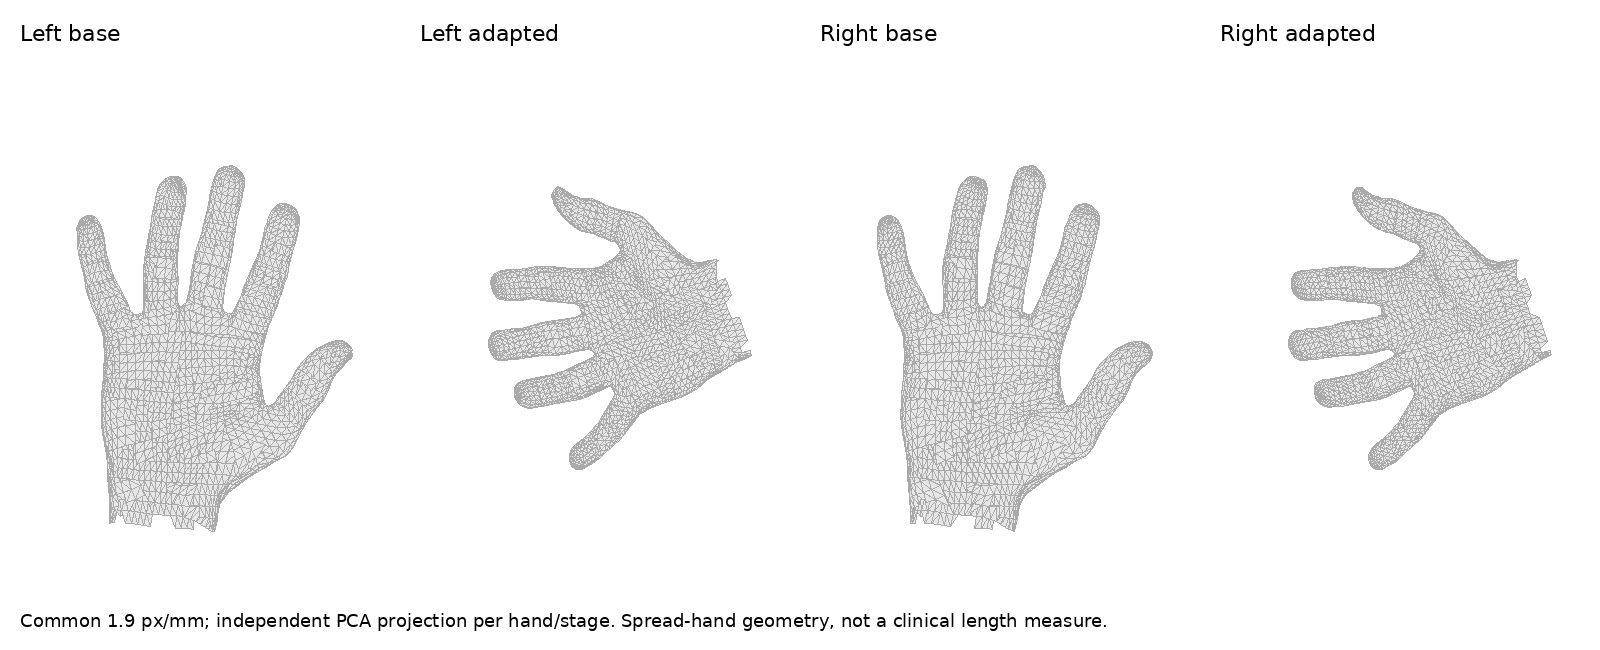
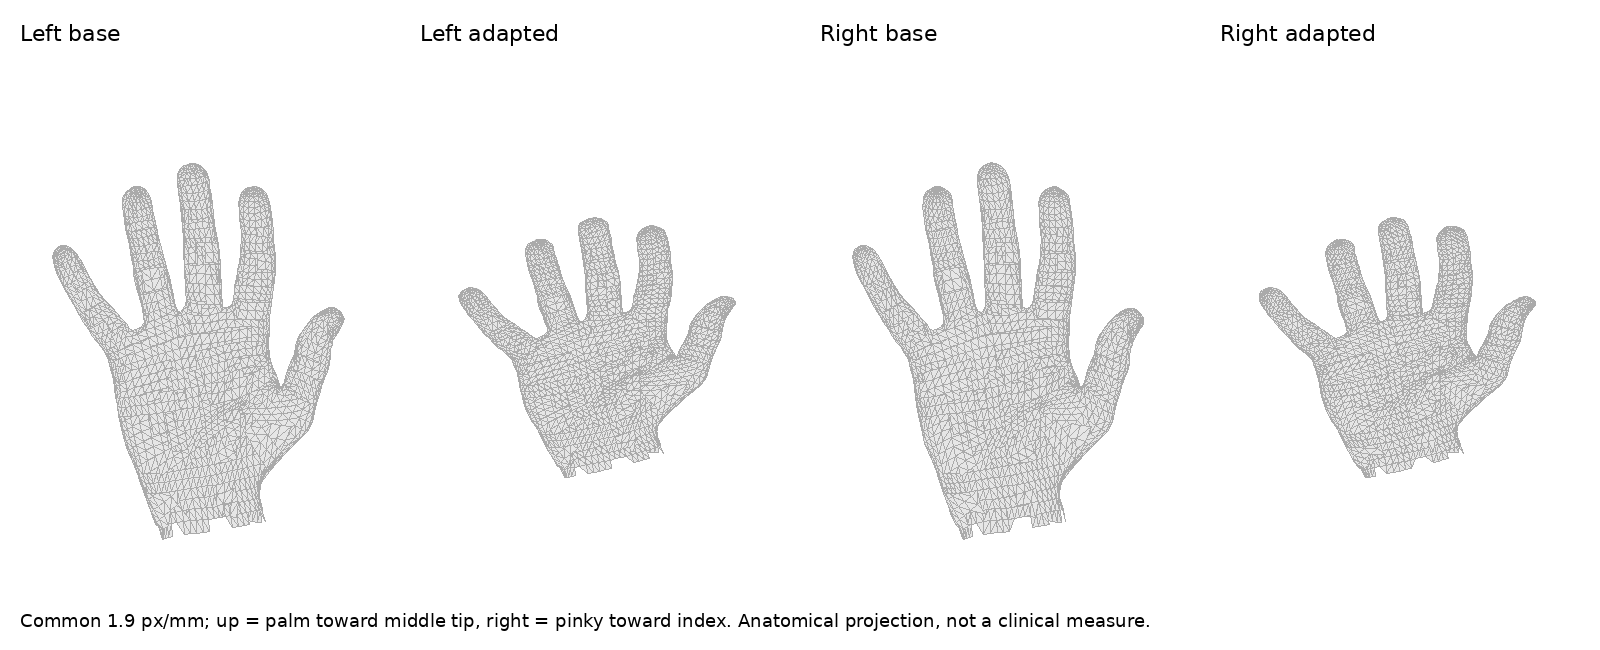
docs: Align audit hand comparisons to anatomical landmarks

diff --git a/tools/blender/publish_athlete_audit.py b/tools/blender/publish_athlete_audit.py
@@ -98,12 +98,17 @@ def scientific_figures(base_dir,metrics_dir,out,records,capture):
     for col,(side,stage) in enumerate([(s,v) for s in ['Left','Right'] for v in ['base','adapted']]):
         ids=[10 if side=='Left' else 9]+[i for v in m['source']['digit_face_sets'][side].values() for i in v]
         selected=np.isin(a['vertex_face_sets'],ids);points=a[stage];center=points[selected].mean(0)
-        axes=np.linalg.svd(points[selected]-center,full_matrices=False)[2]
-        q=np.column_stack([col*400+200+(points-center)@axes[1]*1900,330-(points-center)@axes[0]*1900])
+        digit_ids=m['source']['digit_face_sets'][side]
+        palm=points[a['vertex_face_sets']==ids[0]].mean(0)
+        long=points[a['vertex_face_sets']==digit_ids['Middle'][3]].mean(0)-palm
+        long/=np.linalg.norm(long)
+        across=points[a['vertex_face_sets']==digit_ids['Index'][0]].mean(0)-points[a['vertex_face_sets']==digit_ids['Pinky'][0]].mean(0)
+        across-=long*np.dot(across,long);across/=np.linalg.norm(across)
+        q=np.column_stack([col*400+200+(points-center)@across*1900,330-(points-center)@long*1900])
         tr=a['triangles'] if stage=='base' else a['adapted_triangles'];tr=tr[np.all(selected[tr],axis=1)]
         for t in tr: draw.polygon([tuple(v) for v in q[t]],fill='#e6e6e6',outline='#aaa')
         draw.text((col*400+20,20),side+' '+stage,font=font(22),fill='black')
-    draw.text((20,610),'Common 1.9 px/mm; independent PCA projection per hand/stage. Spread-hand geometry, not a clinical length measure.',font=font(18),fill='black')
+    draw.text((20,610),'Common 1.9 px/mm; up = palm toward middle tip, right = pinky toward index. Anatomical projection, not a clinical measure.',font=font(18),fill='black')
     result.save(out/'hand-proportions.png')
     for side in ['Left','Right']:
         hand=m['hands'][side];ids=[10 if side=='Left' else 9]+[i for v in m['source']['digit_face_sets'][side].values() for i in v]

diff --git a/docs/blender-phase5-athlete-audit.md b/docs/blender-phase5-athlete-audit.md
@@ -38,7 +38,7 @@ There are no embedded textures and no TANGENT accessor.
 
 Source paths and SHA-256s, Blender version, per-bone origins and source region
 IDs are embedded in [the metric archive](evidence/blender052/athlete-metrics.json.gz).
-Existing asset licensing/provenance remains in `assets/ASSET_PROVENANCE.md`;
+Existing asset licensing/provenance remains in [ASSET_PROVENANCE.md](../ASSET_PROVENANCE.md);
 this PR copies no new human model. Diagnostic figures derive from that same
 CC0 base and existing RowPlay surface; tooling is GPL-3.0-or-later.
 
@@ -454,7 +454,7 @@ viewport, scheme/tier and lighting across each controlled view. All must
 match exactly except the deliberately changed L key light. Native unlit whole-athlete masks validate the CPU skin projection at **.9776–.9972 IoU** using 4× coverage rasterization; all ten palettes also match Phase 5.1 exactly. A0 matches A pixel-for-pixel in both stressed states. Blank/saturated fallback images fail publication.
 See [validation results](evidence/blender052/validation.json) for measured
 IoUs and masked mean absolute RGB differences. Those pixel differences
-measure intervention size, **not percentage improvement in realism**.
+measure intervention size, **not percentage improvement in realism**. The ROI is the unoccluded athlete mask: unchanged occluding equipment can dilute these mean differences.
 
 **INFERENCE:** B removes painted face seams and reveals coherent underlying
 cheek/nose/lip form. C modestly separates response and reduces broad coat-like
